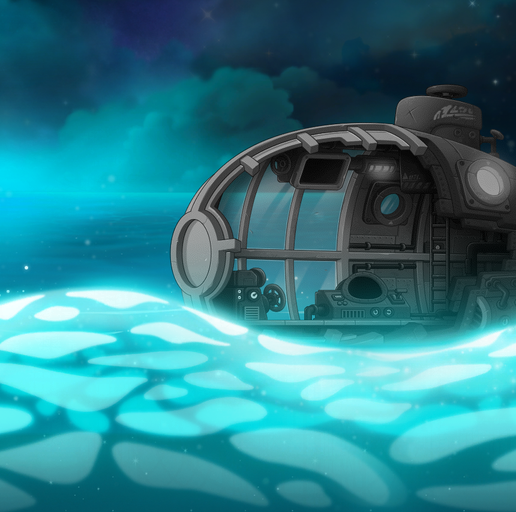
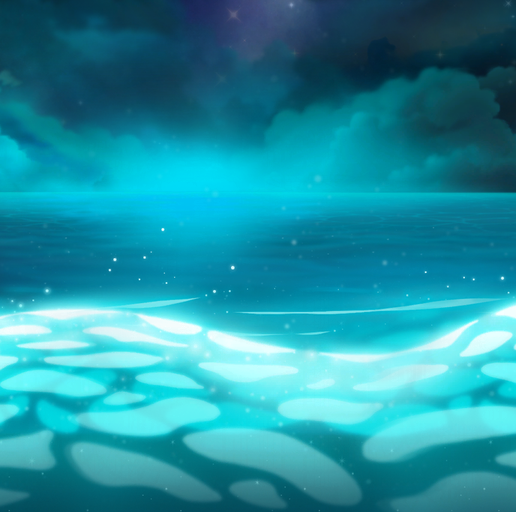
미리보기 맵 배경을 메이플 홈 집 안 셋과 별이 삼켜진 곳 가운데로(dev 만)
- 버섯집, 메이플 대학교, 유랑자의 거처의 1층 안, 바닥 줄 = 발판
- 집 앞 공원과 현관 배경은 뺌
- 가이드, ARCHITECTURE 갱신

diff --git a/src/lib/stageBg.ts b/src/lib/stageBg.ts
@@ -11,8 +11,8 @@ export interface StageBg { sel: string; images: StageBgImage[] }   // sel = 'roo
 // 캐시샵 배경(public/stagebg). 게임 캐시샵(리마스터) 미리보기의 배경 다섯 장
 // (UI.wz UICashShop.img/avatarView/layer:preview_back0~4, 516×512 — 원본 그대로 무손실 WebP). 짝인 preview_cover 는 위아래 가장자리를
 // 게임 창 색으로 흐리는 테두리라 넣지 않는다. ground = 그림 위에서 캐릭터가 딛는 줄(세 장의 바닥이 모두 이 줄), top · bottom = 그림 밖을 채우는 색.
-// 맵 배경(mh0~mh3 메이플 홈 · cellas 셀라스 '별이 삼켜진 곳')도 같은 꼴로 이 목록에 있다 — parser scripts/stagebg-build.cjs 가 게임 맵을 잘라 만든다
-// (516×512, 바닥 줄 362 를 그 맵의 발판에 맞춘다. 별이 삼켜진 곳은 하늘 · 잠수정까지 담으려 0.6 배로 넓게). dev = dev 사이트에서만(사용자 지시 — 먼저 dev 에)
+// 맵 배경(mh1~mh3 메이플 홈의 집 안 · cellas 셀라스 '별이 삼켜진 곳')도 같은 꼴로 이 목록에 있다 — parser scripts/stagebg-build.cjs 가 게임 맵을 잘라 만든다
+// (516×512, 바닥 줄 362 를 그 맵의 발판에 맞춘다. 별이 삼켜진 곳은 가운데 하늘까지 담으려 0.6 배로 넓게). dev = dev 사이트에서만(사용자 지시 — 먼저 dev 에)
 export interface CashBg { id: string; label: string; src: string; top: string; bottom: string; dev?: boolean }
 export const CASH_BG_W = 516, CASH_BG_H = 512, CASH_BG_GROUND = 362
 export const CASH_BGS: CashBg[] = ([
@@ -21,11 +21,10 @@ export const CASH_BGS: CashBg[] = ([
   { id: 'cs2', label: '선술집', src: '/stagebg/cs2.webp', top: '#a68d7f', bottom: '#100b07' },
   { id: 'cs3', label: '흰 사다리', src: '/stagebg/cs3.webp', top: '#ffffff', bottom: '#ffffff' },
   { id: 'cs4', label: '검은 사다리', src: '/stagebg/cs4.webp', top: '#292a2a', bottom: '#292a2a' },
-  { id: 'mh0', label: '집 앞 공원', src: '/stagebg/mh0.webp', top: '#77ddff', bottom: '#444433', dev: true },
-  { id: 'mh1', label: '버섯집 현관', src: '/stagebg/mh1.webp', top: '#bbeeee', bottom: '#555544', dev: true },
-  { id: 'mh2', label: '메이플 대학교', src: '/stagebg/mh2.webp', top: '#aa6644', bottom: '#443333', dev: true },
-  { id: 'mh3', label: '유랑자의 거처', src: '/stagebg/mh3.webp', top: '#55ccee', bottom: '#aacc22', dev: true },
-  { id: 'cellas', label: '별이 삼켜진 곳', src: '/stagebg/cellas.webp', top: '#102e43', bottom: '#035767', dev: true },
+  { id: 'mh1', label: '버섯집', src: '/stagebg/mh1.webp', top: '#ccaa77', bottom: '#554444', dev: true },
+  { id: 'mh2', label: '메이플 대학교', src: '/stagebg/mh2.webp', top: '#99bbcc', bottom: '#443333', dev: true },
+  { id: 'mh3', label: '유랑자의 거처', src: '/stagebg/mh3.webp', top: '#99aabb', bottom: '#99bb11', dev: true },
+  { id: 'cellas', label: '별이 삼켜진 곳', src: '/stagebg/cellas.webp', top: '#103444', bottom: '#034d5d', dev: true },
 ] as CashBg[]).filter((c) => DEV_SITE || !c.dev)
 // 파일이 있을 때만(dev) 고를 수 있다 — 한 번만 본다
 let cashOn: Promise<boolean> | null = null

diff --git a/src/lib/guide.ts b/src/lib/guide.ts
@@ -99,7 +99,7 @@ export const GUIDE: GuideEntry[] = [
   { id: 'dot', title: '점 위치 옮기기', words: '점, 얼굴 점, 점 옮기기, 위치 조절',
     how: '점이 있는 얼굴장식을 입고\n위쪽의 캐릭터 화면 오른쪽 아래에 있는\n점 버튼을 누르면 옮길 수 있어요.', go: { tab: 'preview', spot: 'dot' },
     pc: { how: '점이 있는 얼굴장식을 입고\n오른쪽의 캐릭터 화면 오른쪽 위에 있는\n[점 위치] 버튼을 누르면 옮길 수 있어요.' } },
-  { id: 'bg', title: '캐릭터 배경 바꾸기', words: '배경, 배경 바꾸기, 미리보기 배경, 코디 배경, 흰 배경, 검은 배경, 내 사진, 배경 업로드, 피팅룸, 캐시샵 배경, 버섯 집, 시스템 배경, 다크 배경, 프리셋 배경, 프리셋마다 배경' + (DEV_SITE ? ', 메이플 홈 배경, 집 앞 공원, 버섯집, 메이플 대학교, 유랑자의 거처, 셀라스, 별이 삼켜진 곳' : ''),
+  { id: 'bg', title: '캐릭터 배경 바꾸기', words: '배경, 배경 바꾸기, 미리보기 배경, 코디 배경, 흰 배경, 검은 배경, 내 사진, 배경 업로드, 피팅룸, 캐시샵 배경, 버섯 집, 시스템 배경, 다크 배경, 프리셋 배경, 프리셋마다 배경' + (DEV_SITE ? ', 메이플 홈 배경, 메이플 홈 집 안, 버섯집, 메이플 대학교, 유랑자의 거처, 셀라스, 별이 삼켜진 곳' : ''),
     how: '위쪽의 캐릭터 화면 왼쪽 아래에 있는\n그림 버튼을 누르면 바꿀 수 있어요.\n배경은 프리셋마다 따로 저장돼요.', go: { tab: 'preview', sheet: 'bg' },
     pc: { how: '오른쪽의 캐릭터 화면 왼쪽 위에 있는\n[배경] 버튼을 누르면 바꿀 수 있어요.\n배경은 프리셋마다 따로 저장돼요.' } },
   { id: 'image', title: '캐릭터 이미지 저장, 복사', words: '이미지 저장, 사진 저장, 캡처, png, 다운로드, 복사, 이미지 복사, 투명 배경 이미지, 갤러리 저장, 앨범 저장',
